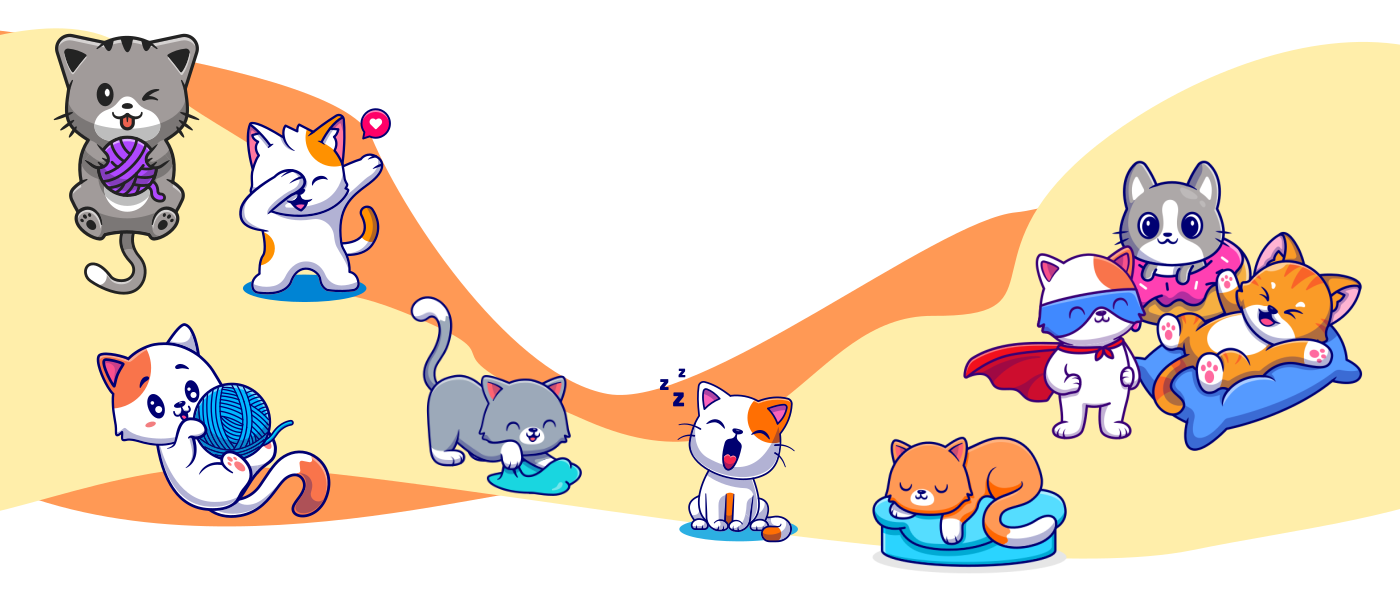
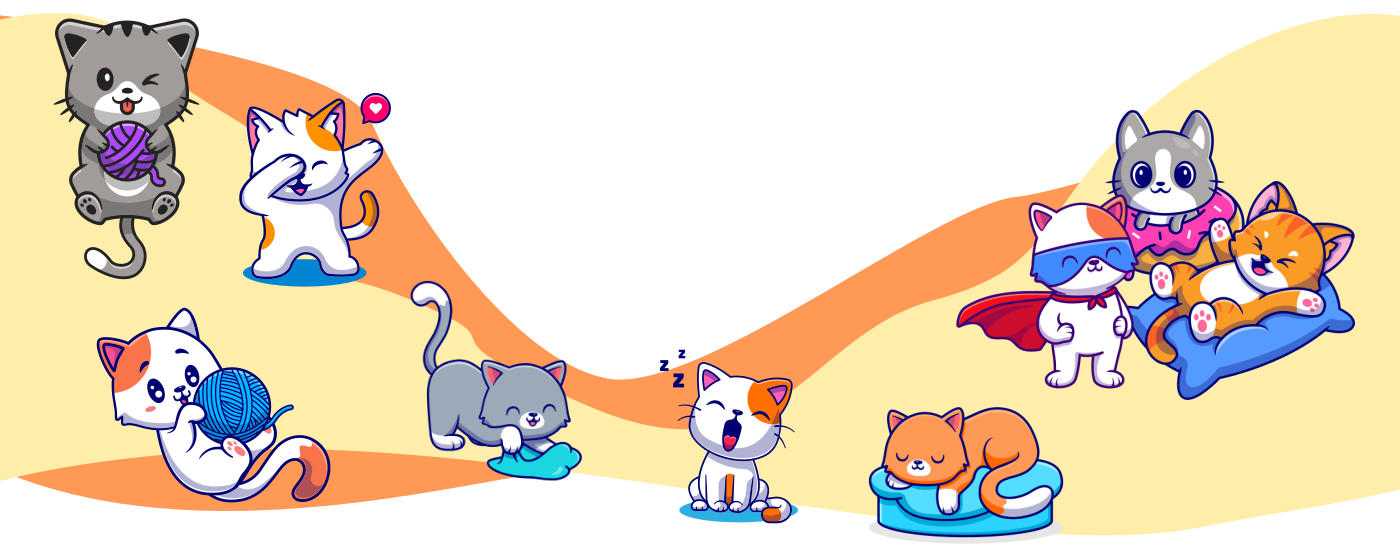
Agregar landing para varios tipos de pantalla

diff --git a/resources/views/welcome.blade.php b/resources/views/welcome.blade.php
@@ -4,14 +4,15 @@
     <meta charset="UTF-8">
     <meta name="viewport" content="width=device-width, initial-scale=1.0">
     <meta http-equiv="X-UA-Compatible" content="ie=edge">
-    <title>Document</title>
-    <link href="https://fonts.googleapis.com/css?family=Nunito:400,700,800&amp;display=swap" rel="stylesheet">
+    <title>Gattitus | Sube una foto de tu gato hoy</title>
+    <link href="https://fonts.googleapis.com/css?family=Nunito:400,700,800&amp;display=swap" rel="preload" as="style" onload="this.onload=null;this.rel='stylesheet'">
+
     <style>
         body{
             margin: 0px;            
         }
         .header{
-            background: linear-gradient(#f50, #f90);
+            background: linear-gradient(180deg, #f50, #f90 50%);
             margin-top: -1px;
             padding-top: 1px;
         }
@@ -24,32 +25,35 @@
         }
         .fb-connect{
             border: 0;
-    border-radius: 20px;
-    background: #1877f2;
-    color: #fff;
-    font-size: 16px;
-    font-weight: 700;
-    padding: 8px 15px 8px 20px;
+            border-radius: 20px;
+            background: #1877f2;
+            color: #fff;
+            font-size: 16px;
+            font-weight: 700;
+            padding: 8px 15px 8px 20px;
         }
         .fb-connect::before{
             display: inline-block;
-    position: relative;
-    left: -8px;
[1 lines of base64/hex data omitted]
-    height: 24px;
-    width: 24px;
-    background-repeat: no-repeat;
-    background-position: 0 0;
-    background-size: 24px 24px;
-    text-indent: -9999px;
-    text-align: center;
-    line-height: 23px;
-    content: "f";
+            position: relative;
+            left: -8px;
[1 lines of base64/hex data omitted]
+            height: 24px;
+            width: 24px;
+            background-repeat: no-repeat;
+            background-position: 0 0;
+            background-size: 24px 24px;
+            text-indent: -9999px;
+            text-align: center;
+            line-height: 23px;
+            content: "f";
         }
         .img{
-                margin-top: 460px;
-            }
-            @media (min-width: 500px) {
+            margin-top: 420px;
+            width: 100%;
+            z-index: -1;
+            display: block;
+        }
+        @media (min-width: 500px) {
             .img{
                 margin-top: 360px;
             }
@@ -79,48 +83,19 @@
                 <br>
                 <br>
                 <br>
-                <h1 style="font-family: 'Nunito'; font-weight: 800; color: #fff; text-align: center; font-size: 40px; margin-top:0px;">Gattitus, sube una foto de tu gato hoy</h1>
-                <p style="font-family: 'Nunito'; font-weight: 200; color: #fff; text-align: center; font-size: 26px;">
+                <h1 style="font-family: 'Nunito'; font-weight: 800; color: #fff; text-align: center; font-size: 40px; line-height: 40px; margin-top:0px;">Gattitus, sube una foto de tu gato hoy</h1>
+                <p style="font-family: 'Nunito'; font-weight: 200; color: #fff; text-align: center; font-size: 26px; line-height: 26px; margin-top: 50px;">
                     Un lugar donde los usuarios pueden compartir y descubrir fotos de gatos
                 </p>
-                <button _ngcontent-jfl-c57="" class="fb-connect">Iniciar sesión con Facebook</button>
+                <button style="margin-top: 30px;" class="fb-connect">Iniciar sesión con Facebook</button>
             </div>
         </div>
-        <img src="{{ asset('assets/imgs/land.png') }}" style="width:100%; z-index: -1; display: block;" class="img">
+        <picture>
+            <source media="(min-width:1000px)" srcset="{{ asset('assets/imgs/land.png') }}" class="img">
+            <source media="(min-width:800px)" srcset="{{ asset('assets/imgs/land-lg.png') }}" class="img">
+            <source media="(min-width:600px)" srcset="{{ asset('assets/imgs/land-md.png') }}" class="img">
+            <img src="{{ asset('assets/imgs/land-sm.png') }}" class="img">     
+        </picture>
     </div>
-    Lorem ipsum dolor sit amet consectetur adipisicing elit. Nihil sint maxime cumque! Animi, facere. Voluptatibus quia ratione ex commodi nulla natus. Voluptas cum labore hic debitis exercitationem. Modi, temporibus unde!
-    <br>
-    Lorem ipsum dolor sit amet consectetur adipisicing elit. Nihil sint maxime cumque! Animi, facere. Voluptatibus quia ratione ex commodi nulla natus. Voluptas cum labore hic debitis exercitationem. Modi, temporibus unde!
-    <br>
-    Lorem ipsum dolor sit amet consectetur adipisicing elit. Nihil sint maxime cumque! Animi, facere. Voluptatibus quia ratione ex commodi nulla natus. Voluptas cum labore hic debitis exercitationem. Modi, temporibus unde!
-    <br>
-    Lorem ipsum dolor sit amet consectetur adipisicing elit. Nihil sint maxime cumque! Animi, facere. Voluptatibus quia ratione ex commodi nulla natus. Voluptas cum labore hic debitis exercitationem. Modi, temporibus unde!
-    <br>
-    Lorem ipsum dolor sit amet consectetur adipisicing elit. Nihil sint maxime cumque! Animi, facere. Voluptatibus quia ratione ex commodi nulla natus. Voluptas cum labore hic debitis exercitationem. Modi, temporibus unde!
-    <br>
-    Lorem ipsum dolor sit amet consectetur adipisicing elit. Nihil sint maxime cumque! Animi, facere. Voluptatibus quia ratione ex commodi nulla natus. Voluptas cum labore hic debitis exercitationem. Modi, temporibus unde!
-    <br>
-    Lorem ipsum dolor sit amet consectetur adipisicing elit. Nihil sint maxime cumque! Animi, facere. Voluptatibus quia ratione ex commodi nulla natus. Voluptas cum labore hic debitis exercitationem. Modi, temporibus unde!
-    <br>
-    Lorem ipsum dolor sit amet consectetur adipisicing elit. Nihil sint maxime cumque! Animi, facere. Voluptatibus quia ratione ex commodi nulla natus. Voluptas cum labore hic debitis exercitationem. Modi, temporibus unde!
-    <br>
-    Lorem ipsum dolor sit amet consectetur adipisicing elit. Nihil sint maxime cumque! Animi, facere. Voluptatibus quia ratione ex commodi nulla natus. Voluptas cum labore hic debitis exercitationem. Modi, temporibus unde!
-    <br>
-    Lorem ipsum dolor sit amet consectetur adipisicing elit. Nihil sint maxime cumque! Animi, facere. Voluptatibus quia ratione ex commodi nulla natus. Voluptas cum labore hic debitis exercitationem. Modi, temporibus unde!
-    <br>
-    Lorem ipsum dolor sit amet consectetur adipisicing elit. Nihil sint maxime cumque! Animi, facere. Voluptatibus quia ratione ex commodi nulla natus. Voluptas cum labore hic debitis exercitationem. Modi, temporibus unde!
-    <br>
-    Lorem ipsum dolor sit amet consectetur adipisicing elit. Nihil sint maxime cumque! Animi, facere. Voluptatibus quia ratione ex commodi nulla natus. Voluptas cum labore hic debitis exercitationem. Modi, temporibus unde!
-    <br>
-    Lorem ipsum dolor sit amet consectetur adipisicing elit. Nihil sint maxime cumque! Animi, facere. Voluptatibus quia ratione ex commodi nulla natus. Voluptas cum labore hic debitis exercitationem. Modi, temporibus unde!
-    <br>
-    Lorem ipsum dolor sit amet consectetur adipisicing elit. Nihil sint maxime cumque! Animi, facere. Voluptatibus quia ratione ex commodi nulla natus. Voluptas cum labore hic debitis exercitationem. Modi, temporibus unde!
-    <br>
-    Lorem ipsum dolor sit amet consectetur adipisicing elit. Nihil sint maxime cumque! Animi, facere. Voluptatibus quia ratione ex commodi nulla natus. Voluptas cum labore hic debitis exercitationem. Modi, temporibus unde!
-    <br>
-    Lorem ipsum dolor sit amet consectetur adipisicing elit. Nihil sint maxime cumque! Animi, facere. Voluptatibus quia ratione ex commodi nulla natus. Voluptas cum labore hic debitis exercitationem. Modi, temporibus unde!
-    <br>
-    
-    
 </body>
 </html>
